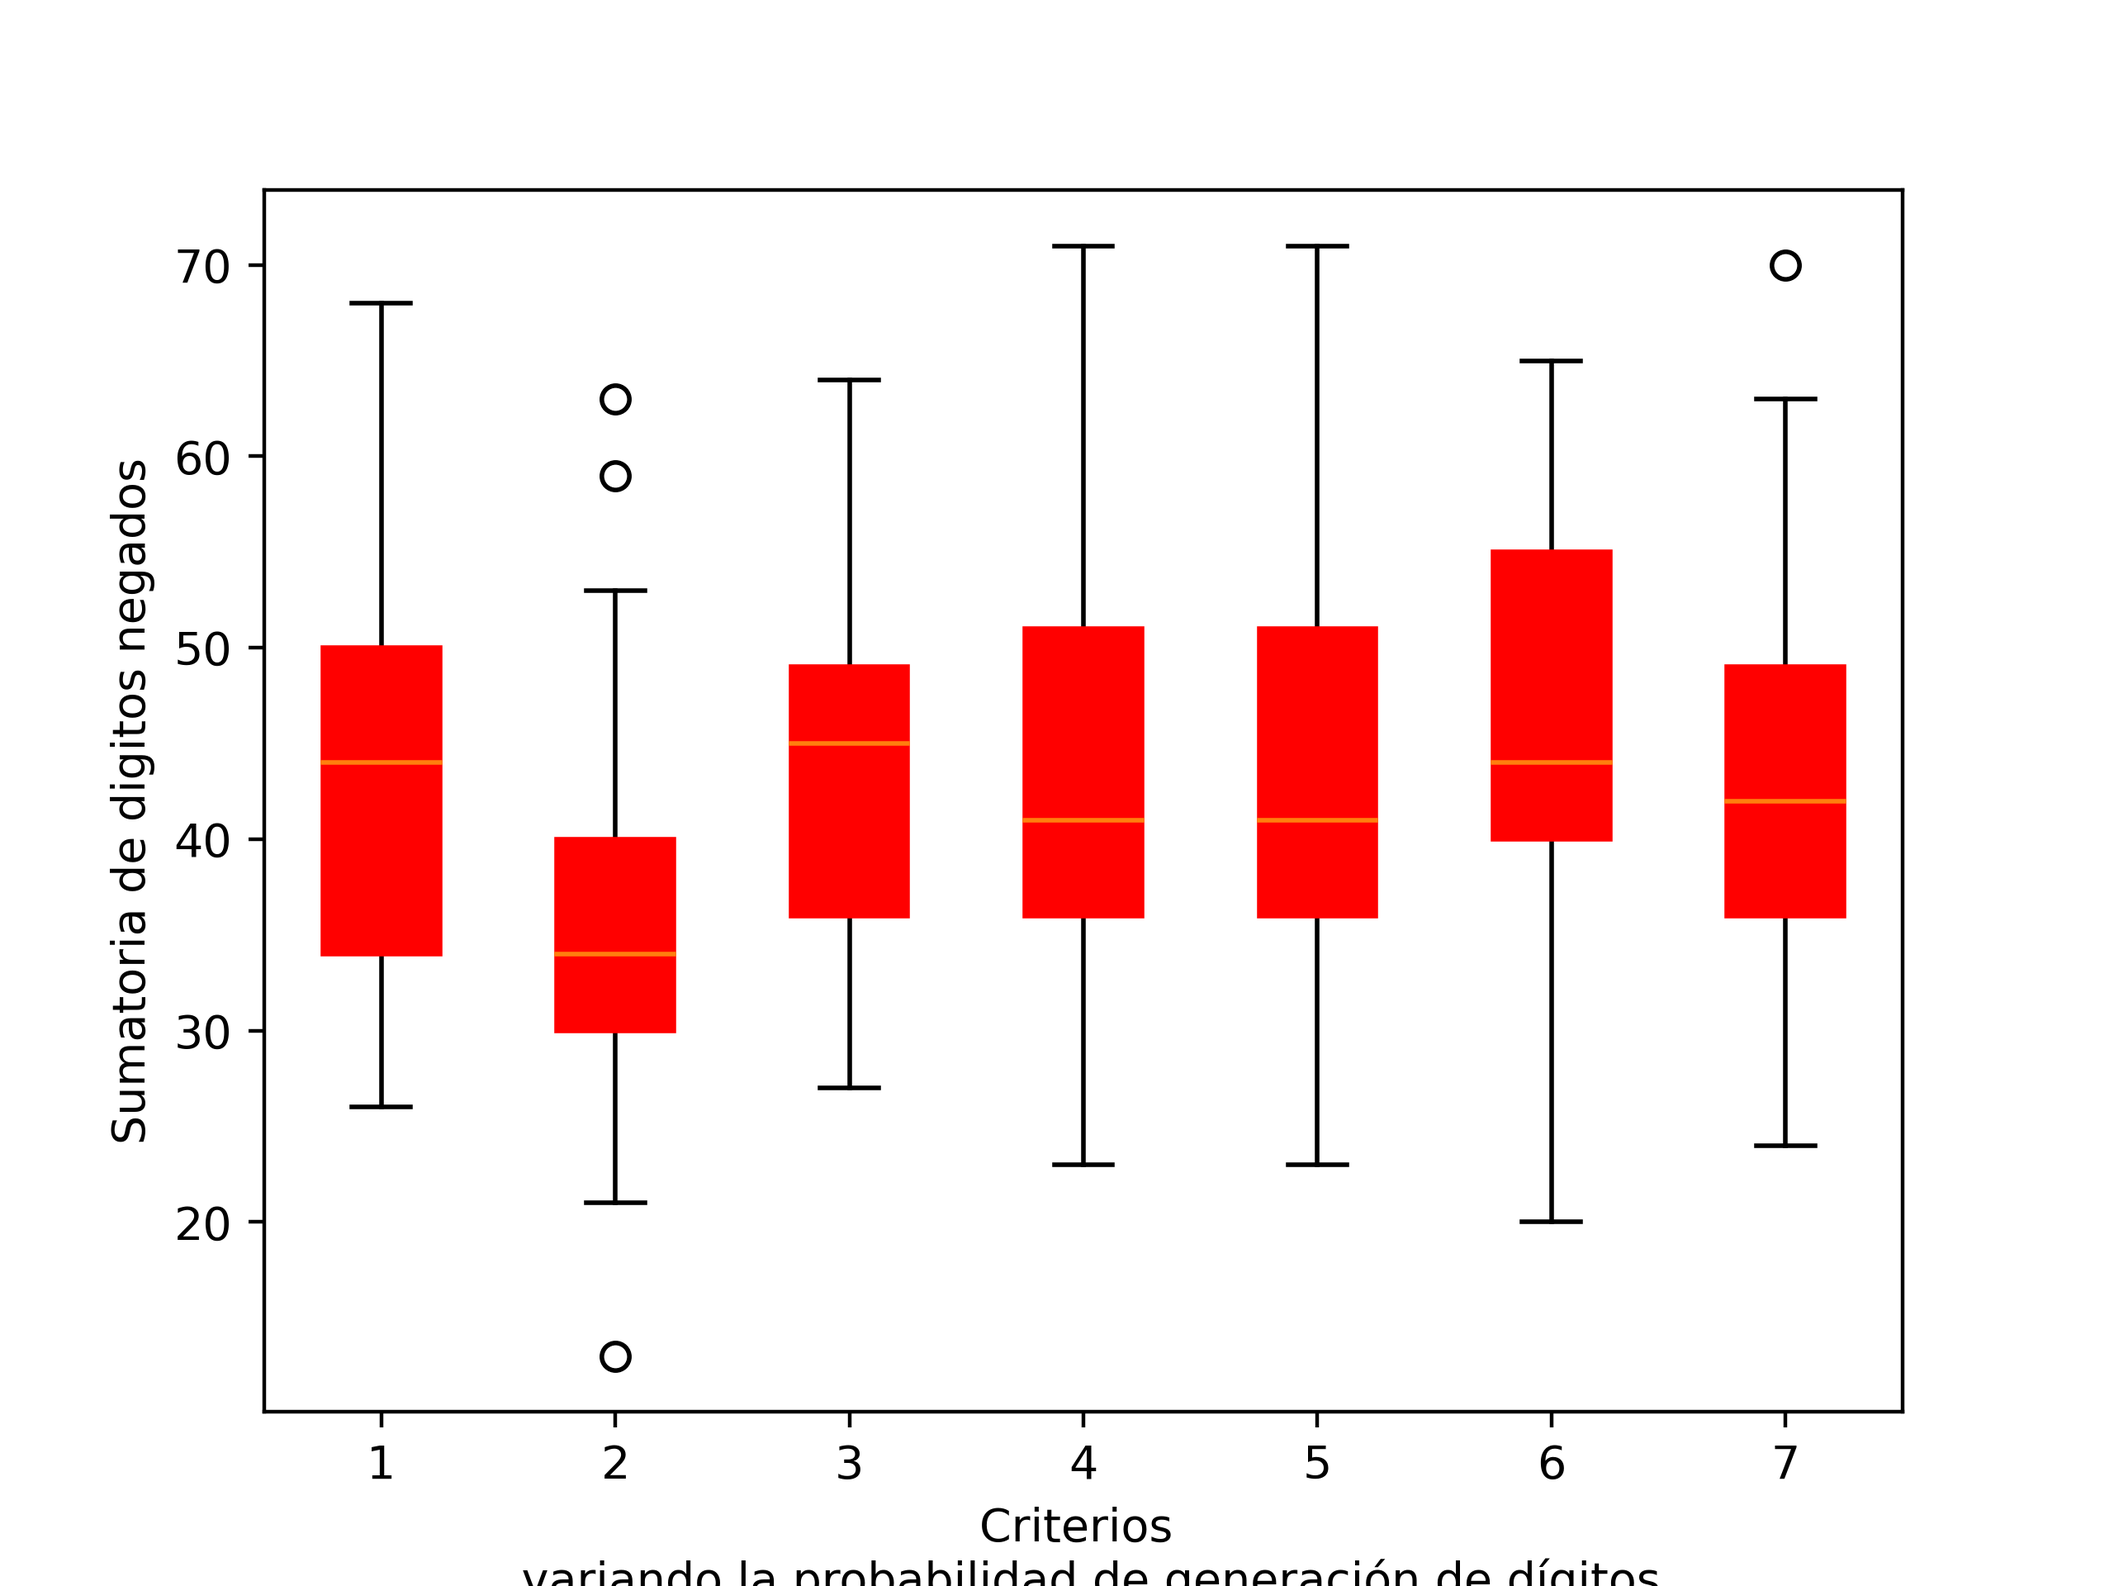
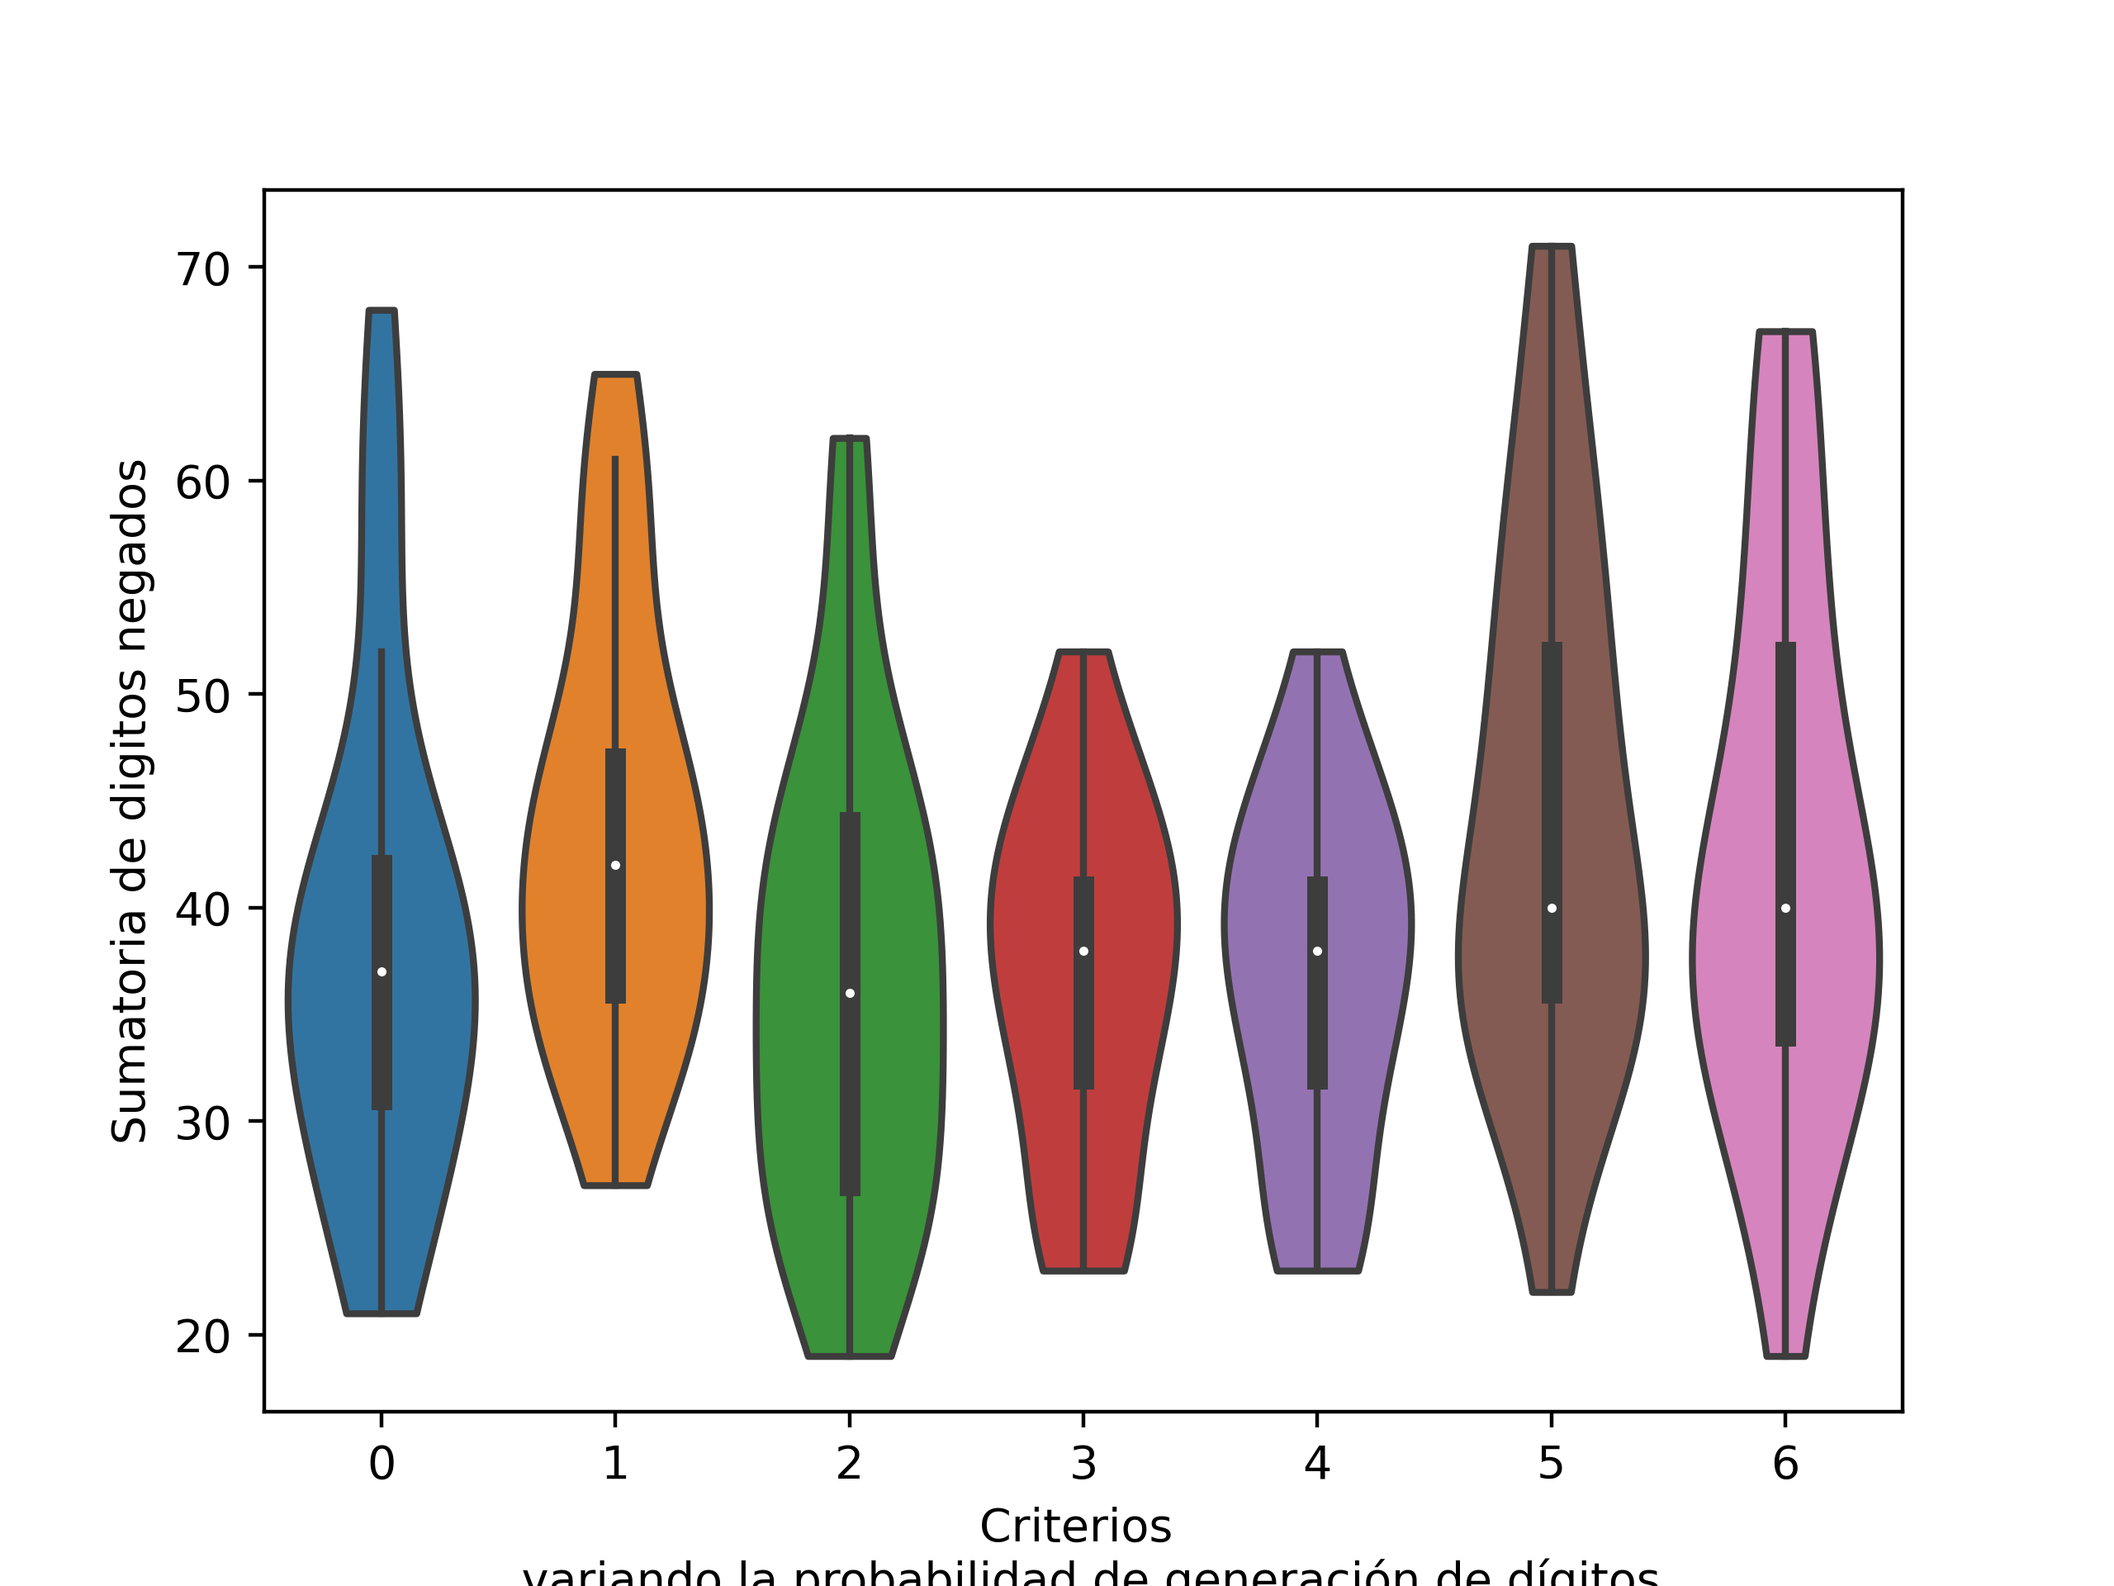
lol

diff --git a/p5/elisacode.py b/p5/elisacode.py
@@ -1,25 +1,202 @@
 from math import exp, pi
 import numpy as np
+import matplotlib.pyplot as plt
+
+import seaborn as sns
+
+
+sns.set_theme(style="ticks")
 def g(x):
     return (2  / (pi * (exp(x) + exp(-x))))
  
 vg = np.vectorize(g)
 X = np.arange(-8, 8, 0.05) # ampliar y refinar
 Y = vg(X) # mayor eficiencia
- 
+wolf = str(0.0488340)  
 from GeneralRandom import GeneralRandom
 generador = GeneralRandom(np.asarray(X), np.asarray(Y))
 desde = 3
 hasta = 7
-pedazo = 50000
+pedazo = 100
 cuantos = 500
 def parte(replica):
     V = generador.random(pedazo)[0]
     return ((V >= desde) & (V <= hasta)).sum() 
- 
+primero = []
+segundo = []
+tercero = []
+cuarto = []
+quinto = []
+sexto = []
+septimpo = []
+
+
 import multiprocessing
 if __name__ == "__main__":
     with multiprocessing.Pool() as pool:
-        montecarlo = pool.map(parte, range(cuantos))
-        integral = sum(montecarlo) / (cuantos * pedazo)
-        print((pi / 2) * integral)
+        uno = 0
+        dos = 0
+        tres = 0
+        cuatro = 0
+        cinco = 0
+        seis = 0
+        siete = 0
+        for t in range(1, 100):
+            montecarlo = pool.map(parte, range(100))
+            integral = sum(montecarlo) / (100 * pedazo)
+            numn = (pi / 2) * integral
+            num = str(numn)
+            #print(numn)
+            if num[0] == wolf[0] and num[1] == wolf[1] and num[2] == wolf[2]: # 1er Decimal
+                
+                uno = uno + 1
+            if num[0] == wolf[0] and num[1] == wolf[1] and num[2] == wolf[2] and num[3] == wolf[3]: # 2do Decimal
+                dos = dos + 1
+            if num[0] == wolf[0] and num[1] == wolf[1] and num[2] == wolf[2] and num[3] == wolf[3] and num[4] == wolf[4]: # 3er Decimal
+                tres = tres + 1
+            if num[0] == wolf[0] and num[1] == wolf[1] and num[2] == wolf[2] and num[3] == wolf[3] and num[4] == wolf[4] and num[5] == wolf[5]: # 4to Decimal
+                cuatro = cuatro + 1
+            if num[0] == wolf[0] and num[1] == wolf[1] and num[2] == wolf[2] and num[3] == wolf[3] and num[4] == wolf[4] and num[5] == wolf[5] and num[6] == wolf[6]: # 5to Decimal
+                cinco = cinco + 1
+            if num[0] == wolf[0] and num[1] == wolf[1] and num[2] == wolf[2] and num[3] == wolf[3] and num[4] == wolf[4] and num[5] == wolf[5] and num[6] == wolf[6] and num[7] == wolf[7]: # 6to Decimal
+                seis = seis + 1
+            if num[0] == wolf[0] and num[1] == wolf[1] and num[2] == wolf[2] and num[3] == wolf[3] and num[4] == wolf[4] and num[5] == wolf[5] and num[6] == wolf[6] and num[7] == wolf[7] and num[8] == wolf[8] : # 7mo Decimal
+                siete = siete + 1
+            primero.append(uno)
+            primero.append(dos)
+            primero.append(tres)
+            primero.append(cuatro)
+            primero.append(cinco)
+            primero.append(seis)
+            primero.append(siete)
+
+
+        uno = 0
+        dos = 0
+        tres = 0
+        cuatro = 0
+        cinco = 0
+        seis = 0
+        siete = 0
+
+
+
+        for t in range(1, 100):
+            montecarlo = pool.map(parte, range(1000))
+            integral = sum(montecarlo) / (1000 * pedazo)
+            numn = (pi / 2) * integral
+            num = str(numn)
+            #print(numn)
+            if num[0] == wolf[0] and num[1] == wolf[1] and num[2] == wolf[2]: # 1er Decimal
+                
+                uno = uno + 1
+            if num[0] == wolf[0] and num[1] == wolf[1] and num[2] == wolf[2] and num[3] == wolf[3]: # 2do Decimal
+                dos = dos + 1
+            if num[0] == wolf[0] and num[1] == wolf[1] and num[2] == wolf[2] and num[3] == wolf[3] and num[4] == wolf[4]: # 3er Decimal
+                tres = tres + 1
+            if num[0] == wolf[0] and num[1] == wolf[1] and num[2] == wolf[2] and num[3] == wolf[3] and num[4] == wolf[4] and num[5] == wolf[5]: # 4to Decimal
+                cuatro = cuatro + 1
+            if num[0] == wolf[0] and num[1] == wolf[1] and num[2] == wolf[2] and num[3] == wolf[3] and num[4] == wolf[4] and num[5] == wolf[5] and num[6] == wolf[6]: # 5to Decimal
+                cinco = cinco + 1
+            if num[0] == wolf[0] and num[1] == wolf[1] and num[2] == wolf[2] and num[3] == wolf[3] and num[4] == wolf[4] and num[5] == wolf[5] and num[6] == wolf[6] and num[7] == wolf[7]: # 6to Decimal
+                seis = seis + 1
+            if num[0] == wolf[0] and num[1] == wolf[1] and num[2] == wolf[2] and num[3] == wolf[3] and num[4] == wolf[4] and num[5] == wolf[5] and num[6] == wolf[6] and num[7] == wolf[7] and num[8] == wolf[8] : # 7mo Decimal
+                siete = siete + 1
+            segundo.append(uno)
+            segundo.append(dos)
+            segundo.append(tres)
+            segundo.append(cuatro)
+            segundo.append(cinco)
+            segundo.append(seis)
+            segundo.append(siete)
+
+
+
+        uno = 0
+        dos = 0
+        tres = 0
+        cuatro = 0
+        cinco = 0
+        seis = 0
+        siete = 0
+
+
+
+        for t in range(1, 100):
+            montecarlo = pool.map(parte, range(10000))
+            integral = sum(montecarlo) / (10000 * pedazo)
+            numn = (pi / 2) * integral
+            num = str(numn)
+            #print(numn)
+            if num[0] == wolf[0] and num[1] == wolf[1] and num[2] == wolf[2]: # 1er Decimal
+                
+                uno = uno + 1
+            if num[0] == wolf[0] and num[1] == wolf[1] and num[2] == wolf[2] and num[3] == wolf[3]: # 2do Decimal
+                dos = dos + 1
+            if num[0] == wolf[0] and num[1] == wolf[1] and num[2] == wolf[2] and num[3] == wolf[3] and num[4] == wolf[4]: # 3er Decimal
+                tres = tres + 1
+            if num[0] == wolf[0] and num[1] == wolf[1] and num[2] == wolf[2] and num[3] == wolf[3] and num[4] == wolf[4] and num[5] == wolf[5]: # 4to Decimal
+                cuatro = cuatro + 1
+            if num[0] == wolf[0] and num[1] == wolf[1] and num[2] == wolf[2] and num[3] == wolf[3] and num[4] == wolf[4] and num[5] == wolf[5] and num[6] == wolf[6]: # 5to Decimal
+                cinco = cinco + 1
+            if num[0] == wolf[0] and num[1] == wolf[1] and num[2] == wolf[2] and num[3] == wolf[3] and num[4] == wolf[4] and num[5] == wolf[5] and num[6] == wolf[6] and num[7] == wolf[7]: # 6to Decimal
+                seis = seis + 1
+            if num[0] == wolf[0] and num[1] == wolf[1] and num[2] == wolf[2] and num[3] == wolf[3] and num[4] == wolf[4] and num[5] == wolf[5] and num[6] == wolf[6] and num[7] == wolf[7] and num[8] == wolf[8] : # 7mo Decimal
+                siete = siete + 1
+            tercero.append(uno)
+            tercero.append(dos)
+            tercero.append(tres)
+            tercero.append(cuatro)
+            tercero.append(cinco)
+            tercero.append(seis)
+            tercero.append(siete)
+
+
+
+        uno = 0
+        dos = 0
+        tres = 0
+        cuatro = 0
+        cinco = 0
+        seis = 0
+        siete = 0
+
+
+
+        for t in range(1, 100):
+            montecarlo = pool.map(parte, range(100000))
+            integral = sum(montecarlo) / (100000 * pedazo)
+            numn = (pi / 2) * integral
+            num = str(numn)
+            #print(numn)
+            if num[0] == wolf[0] and num[1] == wolf[1] and num[2] == wolf[2]: # 1er Decimal
+                uno = uno + 1
+            if num[0] == wolf[0] and num[1] == wolf[1] and num[2] == wolf[2] and num[3] == wolf[3]: # 2do Decimal
+                dos = dos + 1
+            if num[0] == wolf[0] and num[1] == wolf[1] and num[2] == wolf[2] and num[3] == wolf[3] and num[4] == wolf[4]: # 3er Decimal
+                tres = tres + 1
+            if num[0] == wolf[0] and num[1] == wolf[1] and num[2] == wolf[2] and num[3] == wolf[3] and num[4] == wolf[4] and num[5] == wolf[5]: # 4to Decimal
+                cuatro = cuatro + 1
+            if num[0] == wolf[0] and num[1] == wolf[1] and num[2] == wolf[2] and num[3] == wolf[3] and num[4] == wolf[4] and num[5] == wolf[5] and num[6] == wolf[6]: # 5to Decimal
+                cinco = cinco + 1
+            if num[0] == wolf[0] and num[1] == wolf[1] and num[2] == wolf[2] and num[3] == wolf[3] and num[4] == wolf[4] and num[5] == wolf[5] and num[6] == wolf[6] and num[7] == wolf[7]: # 6to Decimal
+                seis = seis + 1
+            if num[0] == wolf[0] and num[1] == wolf[1] and num[2] == wolf[2] and num[3] == wolf[3] and num[4] == wolf[4] and num[5] == wolf[5] and num[6] == wolf[6] and num[7] == wolf[7] and num[8] == wolf[8] : # 7mo Decimal
+                siete = siete + 1
+            cuarto.append(uno)
+            cuarto.append(dos)
+            cuarto.append(tres)
+            cuarto.append(cuatro)
+            cuarto.append(cinco)
+            cuarto.append(seis)
+            cuarto.append(siete)
+    print(primero)
+    print(segundo)
+    print(tercero)
+    print(cuarto)
+    c = 'red'
+    data = [primero, segundo, tercero, cuarto]
+    #plt.boxplot(data,patch_artist=True, boxprops=dict(facecolor=c, color=c))
+    ax = sns.violinplot(data=data, scale='count', inner="box"  ,cut = 0)
+    plt.savefig('figurap5.png', dpi = 400)
+    plt.show()

diff --git a/p5/p5.py b/p5/p5.py
@@ -1,0 +1,85 @@
+from math import exp, pi
+import numpy as np
+import matplotlib.pyplot as plt
+import pandas as pd
+
+import seaborn as sns
+
+
+sns.set_theme(style="ticks")
+def g(x):
+    return (2  / (pi * (exp(x) + exp(-x))))
+ 
+vg = np.vectorize(g)
+X = np.arange(-8, 8, 0.05) # ampliar y refinar
+Y = vg(X) # mayor eficiencia
+wolf = str(0.0488340)  
+from GeneralRandom import GeneralRandom
+generador = GeneralRandom(np.asarray(X), np.asarray(Y))
+desde = 3
+hasta = 7
+pedazo = 100
+cuantos = 500
+def parte(replica):
+    V = generador.random(pedazo)[0]
+    return ((V >= desde) & (V <= hasta)).sum() 
+primero = []
+segundo = []
+tercero = []
+cuarto = []
+quinto = []
+sexto = []
+septimo = []
+
+
+import multiprocessing
+if __name__ == "__main__":
+    with multiprocessing.Pool() as pool:
+        uno = 0
+        dos = 0
+        tres = 0
+        cuatro = 0
+        cinco = 0
+        seis = 0
+        siete = 0
+        for t in range(1, 100):
+            montecarlo = pool.map(parte, range(100))
+            integral = sum(montecarlo) / (100 * pedazo)
+            numn = (pi / 2) * integral
+            num = str(numn)
+            #print(numn)
+            if num[0] == wolf[0] and num[1] == wolf[1] and num[2] == wolf[2]: # 1er Decimal
+                
+                uno = uno + 1
+            if num[0] == wolf[0] and num[1] == wolf[1] and num[2] == wolf[2] and num[3] == wolf[3]: # 2do Decimal
+                dos = dos + 1
+            if num[0] == wolf[0] and num[1] == wolf[1] and num[2] == wolf[2] and num[3] == wolf[3] and num[4] == wolf[4]: # 3er Decimal
+                tres = tres + 1
+            if num[0] == wolf[0] and num[1] == wolf[1] and num[2] == wolf[2] and num[3] == wolf[3] and num[4] == wolf[4] and num[5] == wolf[5]: # 4to Decimal
+                cuatro = cuatro + 1
+            if num[0] == wolf[0] and num[1] == wolf[1] and num[2] == wolf[2] and num[3] == wolf[3] and num[4] == wolf[4] and num[5] == wolf[5] and num[6] == wolf[6]: # 5to Decimal
+                cinco = cinco + 1
+            if num[0] == wolf[0] and num[1] == wolf[1] and num[2] == wolf[2] and num[3] == wolf[3] and num[4] == wolf[4] and num[5] == wolf[5] and num[6] == wolf[6] and num[7] == wolf[7]: # 6to Decimal
+                seis = seis + 1
+            if num[0] == wolf[0] and num[1] == wolf[1] and num[2] == wolf[2] and num[3] == wolf[3] and num[4] == wolf[4] and num[5] == wolf[5] and num[6] == wolf[6] and num[7] == wolf[7] and num[8] == wolf[8] : # 7mo Decimal
+                siete = siete + 1
+        primero.append(uno)
+        segundo.append(dos)
+        tercero.append(tres)
+        cuarto.append(cuatro)
+        quinto.append(cinco)
+        sexto.append(seis)
+        septimo.append(siete)
+    print(primero)
+    print(segundo)
+    print(tercero)
+    print(cuarto)
+    print(quinto)
+    print(sexto)
+    print(septimo)
+    c = 'red'
+    #data = [[primero[1]],[primero[2]],[primero[3]],[primero[4]]]
+    #plt.boxplot(data,patch_artist=True, boxprops=dict(facecolor=c, color=c))
+    #ax = sns.violinplot(data=primero, scale='count', inner="box"  ,cut = 0)
+    plt.savefig('figurap5.png', dpi = 400)
+    plt.show()

diff --git a/p5/GeneralRandom.py b/p5/GeneralRandom.py
@@ -1,0 +1,34 @@
+# http://code.activestate.com/recipes/576556-generating-random-numbers-with-arbitrary-distribut/ converted to Python 3
+
+import pylab
+import numpy
+
+class GeneralRandom:
+
+  def __init__(self, x = pylab.arange(-1.0, 1.0, .01), p = None, Nrl = 1000):
+    self.set_pdf(x, p, Nrl)
+
+  def set_pdf(self, x, p, Nrl = 1000):
+    self.x = x
+    self.pdf = p/p.sum()
+    self.cdf = self.pdf.cumsum()
+    self.inversecdfbins = Nrl
+    self.Nrl = Nrl
+    y = pylab.arange(Nrl)/float(Nrl)
+    delta = 1.0/Nrl
+    self.inversecdf = pylab.zeros(Nrl)
+    self.inversecdf[0] = self.x[0]
+    cdf_idx = 0
+    for n in range(1,self.inversecdfbins):
+      while self.cdf[cdf_idx] < y[n] and cdf_idx < Nrl:
+        cdf_idx += 1
+      self.inversecdf[n] = self.x[cdf_idx-1] + (self.x[cdf_idx] - self.x[cdf_idx-1]) * (y[n] - self.cdf[cdf_idx-1])/(self.cdf[cdf_idx] - self.cdf[cdf_idx-1])
+      if cdf_idx >= Nrl:
+        break
+    self.delta_inversecdf = pylab.concatenate((pylab.diff(self.inversecdf), [0]))
+
+  def random(self, N = 1000):
+    idx_f = numpy.random.uniform(size = N, high = self.Nrl-1)
+    idx = pylab.array([idx_f],'i')
+    y = self.inversecdf[idx] + (idx_f - idx)*self.delta_inversecdf[idx]
+    return y

diff --git a/p12/p12.py b/p12/p12.py
@@ -4,6 +4,7 @@ import pandas as pd
 import numpy as np
 from multiprocessing import Pool
 import matplotlib.pyplot as plt
+import seaborn as sns
 s = []
 s2 = []
 s3 = []
@@ -304,7 +305,11 @@ if __name__ == '__main__':
 
 c = 'red'
 data = [s, s2, s3, s4, s4, s6, s7]       
-plt.boxplot(data, patch_artist=True, boxprops=dict(facecolor=c, color=c))
+#plt.boxplot(data, patch_artist=True, boxprops=dict(facecolor=c, color=c))
+
+ax = sns.violinplot(data=data, scale='count', inner="box"  ,cut = 0)
+
+
 plt.ylabel('Sumatoria de digitos negados')
 plt.xlabel('Criterios \n variando la probabilidad de generación de dígitos\nReplicas = 25', loc = 'center')
 plt.savefig('figurap1.png', dpi = 400)
